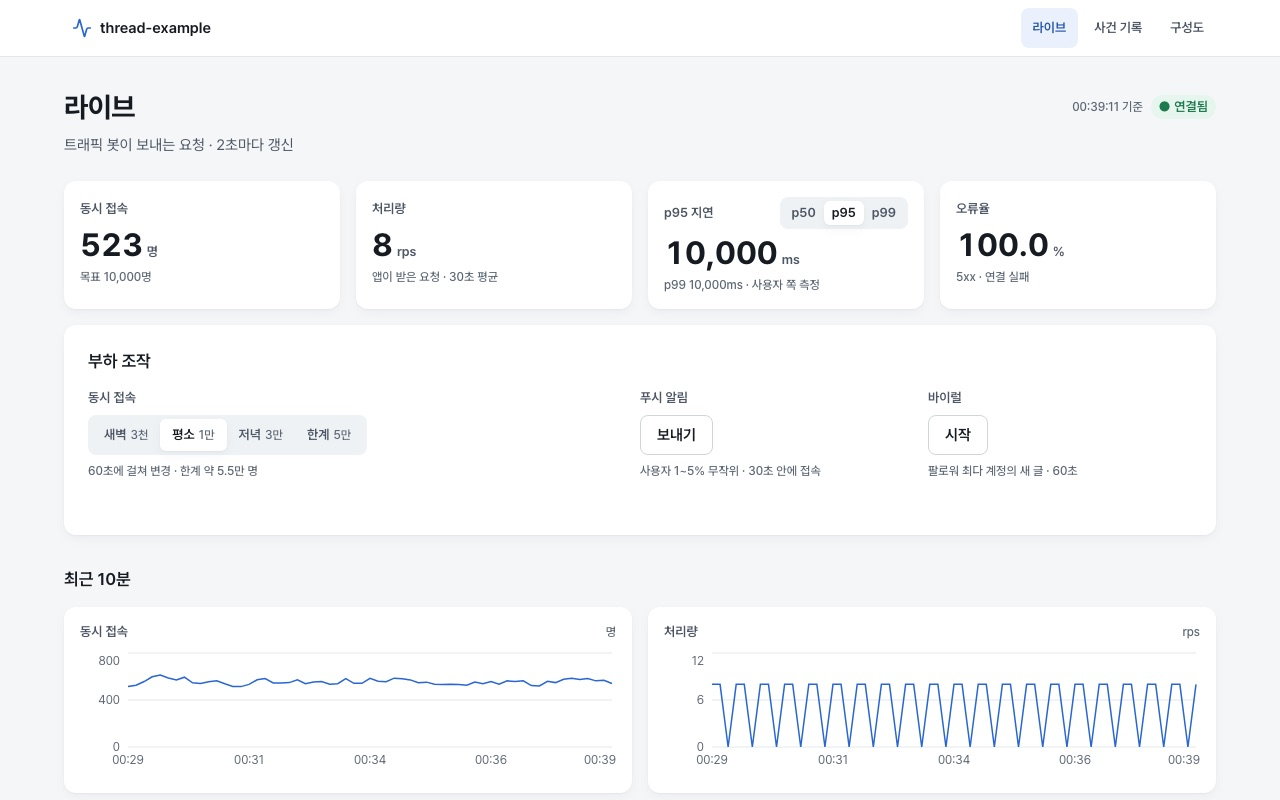
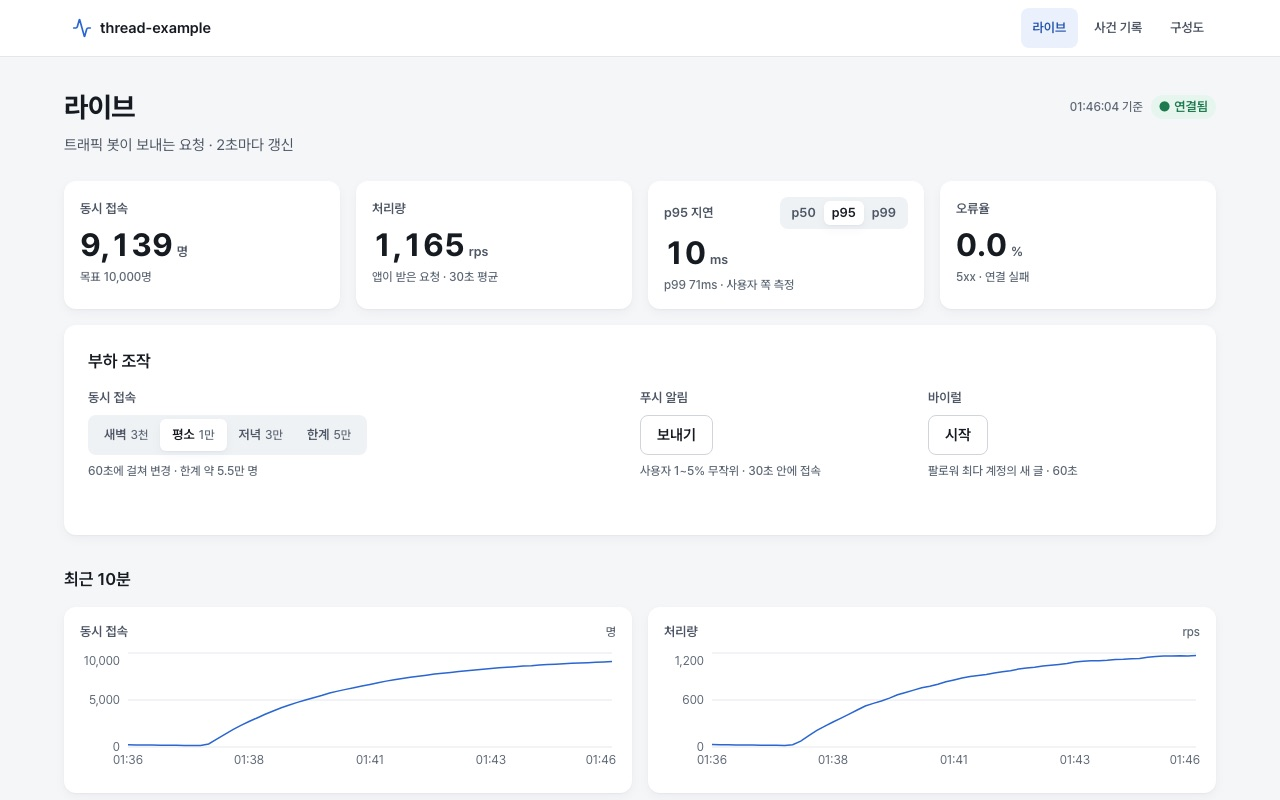
thread-example 캡처를 정상 상태로 다시 찍는다 — 이전 캡처는 DB 장애 중(오류율 100%)이었다

diff --git a/site/projects.js b/site/projects.js
@@ -53,7 +53,7 @@ window.PROJECTS = [
     stack: ["Java 21", "Spring Boot", "PostgreSQL", "Nginx", "Prometheus", "Grafana"],
     url: "https://threads.cafitac.com",
     repo: null,
-    shot: "shots/threads.jpg",
+    shot: "shots/threads.jpg?v=2",
     note: null,
   },
   {
